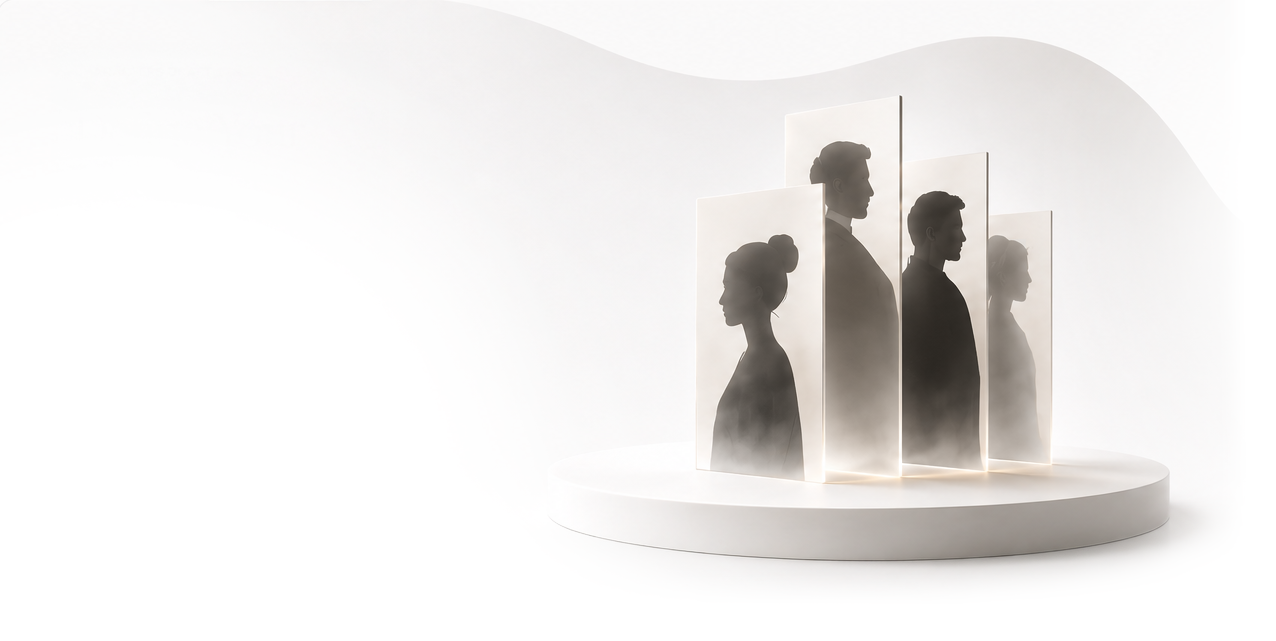
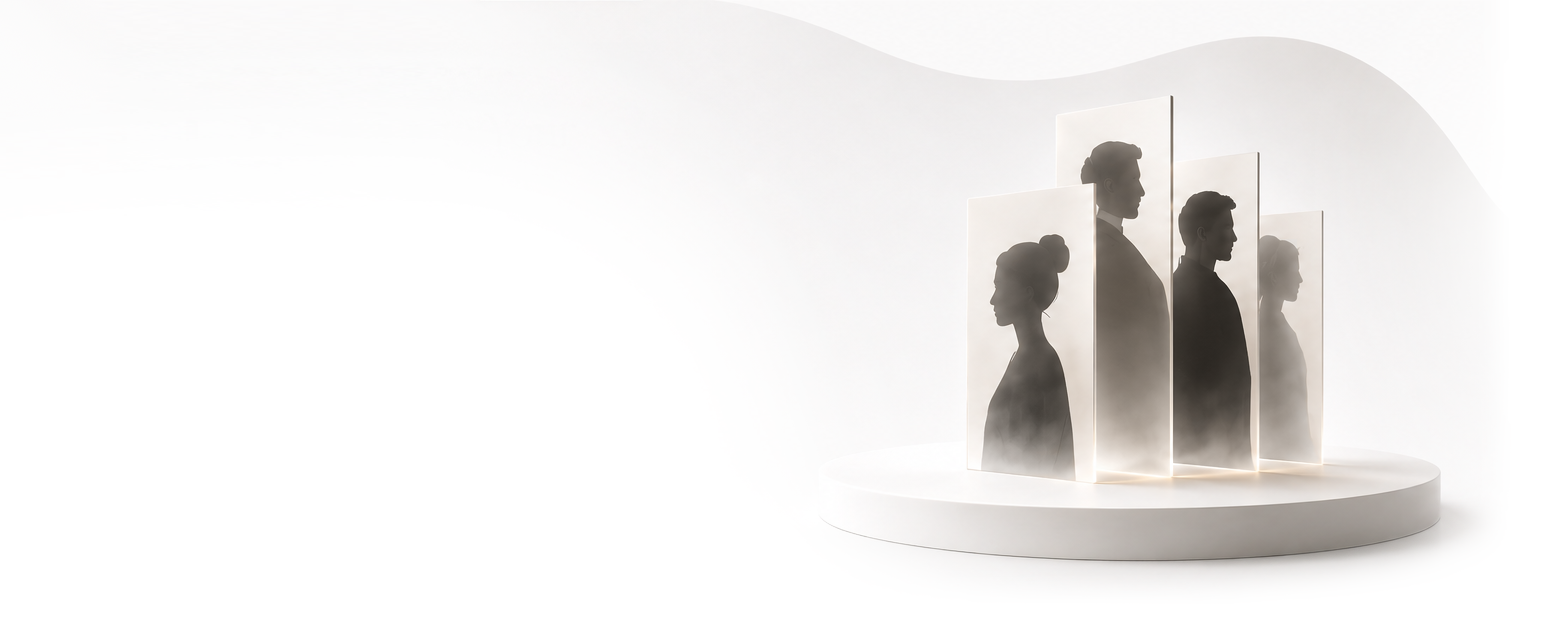
v2 desktop empty state: scale graphic height for new wider asset (1547x641)
The Characters empty-state hero PNG was re-cropped wider (1276→1547
wide, same 641 tall). Width display stays at 1116 per spec; height
recomputed proportionally as 1116 × 641 / 1547 ≈ 462, replacing the
old 561 that matched the previous asset's aspect ratio.

Changed region(s): [[0.5196, 0.2184, 0.9475, 0.9048], [0.8252, 0.0624, 0.9169, 0.1872], [0.703, 0.156, 0.7335, 0.1872]]

diff --git a/app/globals.css b/app/globals.css
@@ -11029,7 +11029,11 @@ html[data-design="v2"] .menu-panel-utility svg {
     left: auto;
     right: auto;
     width: 1116px;
-    height: 561px;
+    /* Height is the proportional scale of the native asset
+       (currently 1547×641 — see public/v2/desktop-empty-state-*.png):
+       1116 × (641 / 1547) ≈ 462. Update this if the asset's native
+       aspect ratio changes again. */
+    height: 462px;
     min-height: 0;
     /* Cancel BOTH parent insets so the graphic is flush with the tab
        nav (top) and the sidebar (left), per spec.